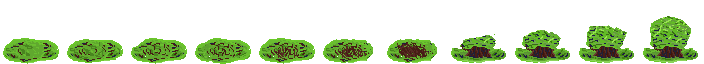
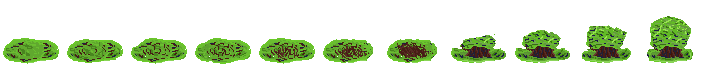
fix bush size and fix terrain merge issue

Changed region(s): [[0.875, 0.75, 0.9375, 0.9375], [0.9688, 0.75, 1.0, 0.9375], [0.8125, 0.75, 0.8438, 0.875]]

diff --git a/src/lib/bush.js b/src/lib/bush.js
@@ -6,7 +6,7 @@ export class Bush {
         this.scene = scene;
     }
     preload() {
-        this.scene.load.image('bush', 'assets/bush-v1.png');
+        this.scene.load.image('bush', 'assets/bush-v2.png');
         this.scene.load.audio('leavesSound', 'assets/sounds/bush-sound.mp3');
         this.scene.load.spritesheet('bushSpawn', 'assets/bush-spawn.png', {
             frameWidth: 64, frameHeight: 64,
@@ -101,6 +101,8 @@ export class Bush {
         ally.play('bushSpawnAnimation');
         ally.on('animationcomplete', () => { 
             ally.setTexture('bush');
+            ally.x = ally.x - 2;
+            ally.y = ally.y + 8;
             if (ally.isSpawned) {
                 return;
             }

diff --git a/src/scenes/game.js b/src/scenes/game.js
@@ -222,9 +222,9 @@ export class GameScene extends Phaser.Scene {
         
     }
 
-    updateTiles()
+    updateTiles(posX, posY)
     {      
-        let currentTile = this.grassMap.getTileAtWorldXY(this.player.gameObject.x, this.player.gameObject.y);
+        let currentTile = this.grassMap.getTileAtWorldXY(posX, posY);
 
         if(currentTile && this.tick % constants.GRASS_GROW_SPEED == 0)
         {
